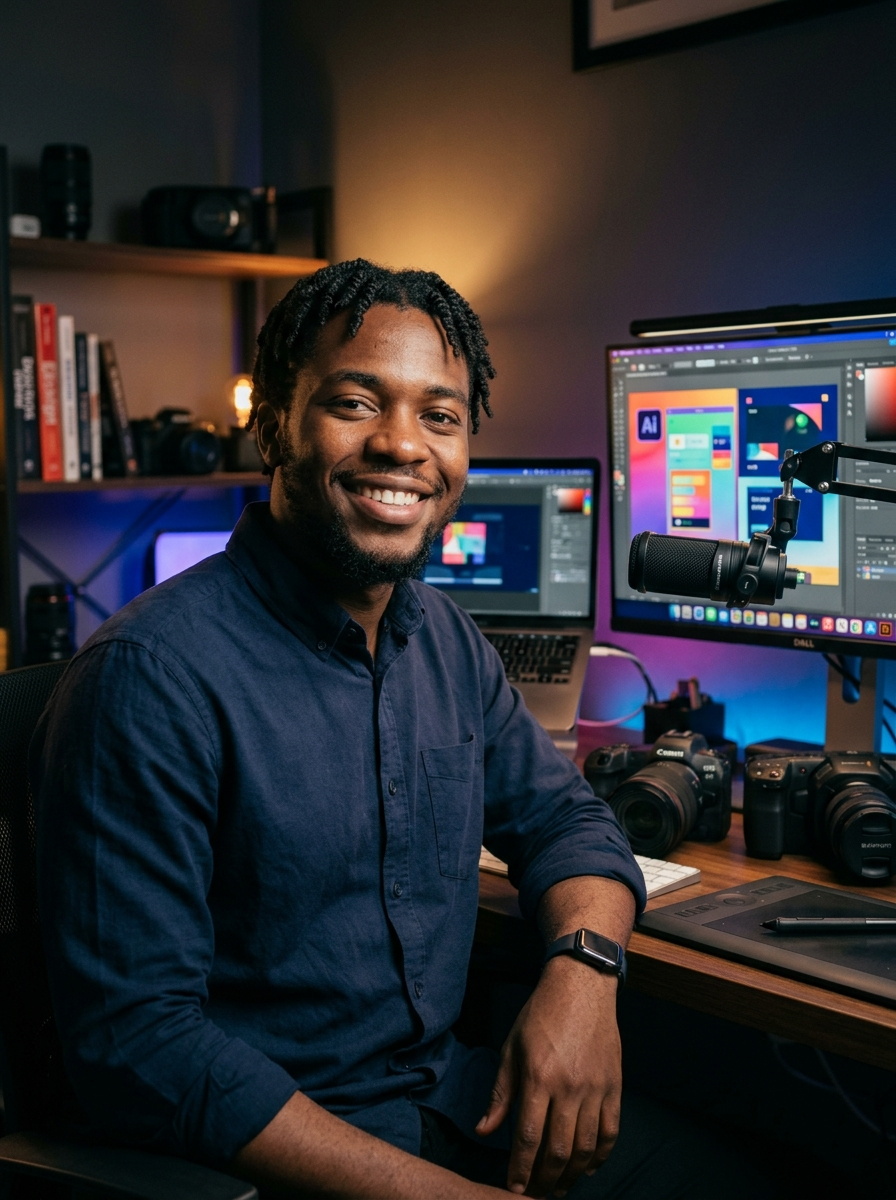
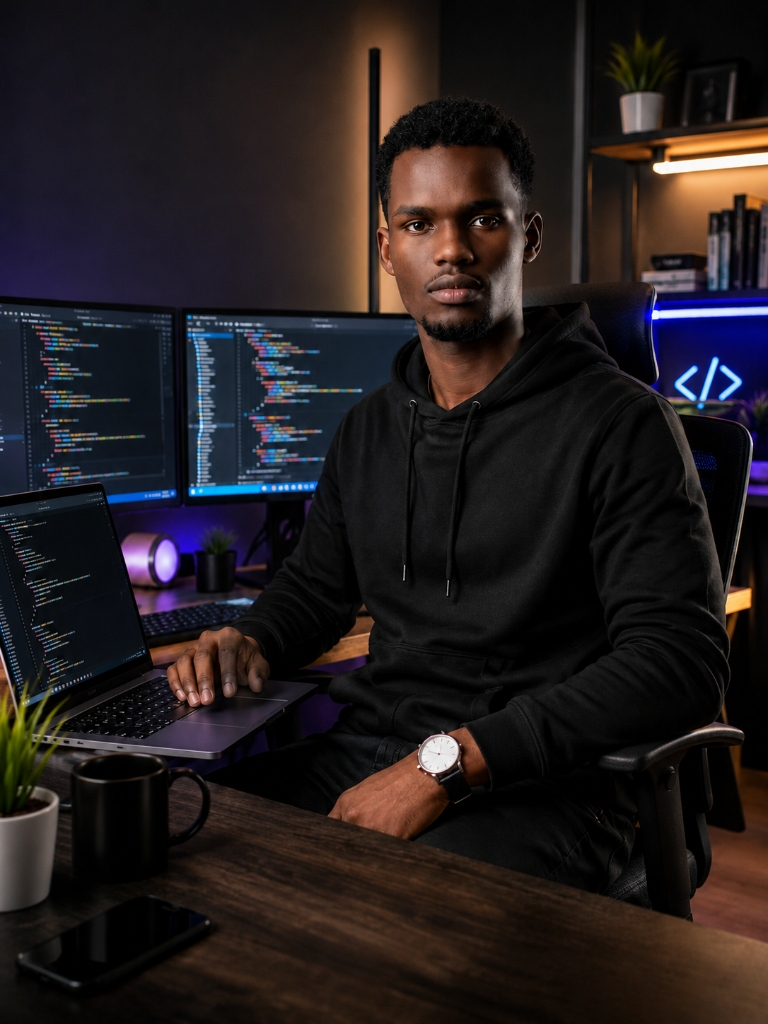
Replace portrait photo with new professional image

diff --git a/style.css b/style.css
@@ -741,7 +741,7 @@ button { cursor: pointer; border: none; background: none; font-family: inherit; 
 .portrait-container {
   width: 100%;
   height: 100%;
-  border-radius: 40px;
+  border-radius: 28px;
   overflow: hidden;
   position: relative;
   box-shadow: 0 30px 80px rgba(0,0,0,0.6), 0 0 0 1px rgba(255,255,255,0.08), var(--shadow-glow-blue);
@@ -750,7 +750,7 @@ button { cursor: pointer; border: none; background: none; font-family: inherit; 
   width: 100%;
   height: 100%;
   object-fit: cover;
-  object-position: center top;
+  object-position: center center;
   transition: transform 0.6s ease;
   will-change: transform;
 }
@@ -1099,8 +1099,8 @@ button { cursor: pointer; border: none; background: none; font-family: inherit; 
   width: 100%;
   aspect-ratio: 4/5;
   object-fit: cover;
-  object-position: center top;
-  border-radius: 32px;
+  object-position: center center;
+  border-radius: 28px;
   box-shadow: 0 30px 80px rgba(0,0,0,0.5), 0 0 0 1px rgba(255,255,255,0.06);
   position: relative;
   z-index: 2;

diff --git a/index.html b/index.html
@@ -227,7 +227,7 @@
             <div class="portrait-container">
               <img
                 src="portrait.jpg"
-                alt="Abdullahi Osman Ali — Creative Designer and Digital Professional in a creative workspace"
+                alt="Abdullahi Osman Ali — Creative Designer and Digital Professional at his workstation"
                 class="portrait-img"
                 id="portrait-img"
                 loading="eager"
@@ -316,7 +316,7 @@
           <div class="about-img-col reveal">
             <div class="about-img-wrapper">
               <div class="about-img-blob" aria-hidden="true"></div>
-              <img src="portrait.jpg" alt="Abdullahi Osman Ali" class="about-full-img" />
+              <img src="portrait.jpg" alt="Abdullahi Osman Ali — sitting at his professional workstation" class="about-full-img" />
               <!-- Experience Badge -->
               <div class="about-exp-badge">
                 <span class="exp-num">5+</span>